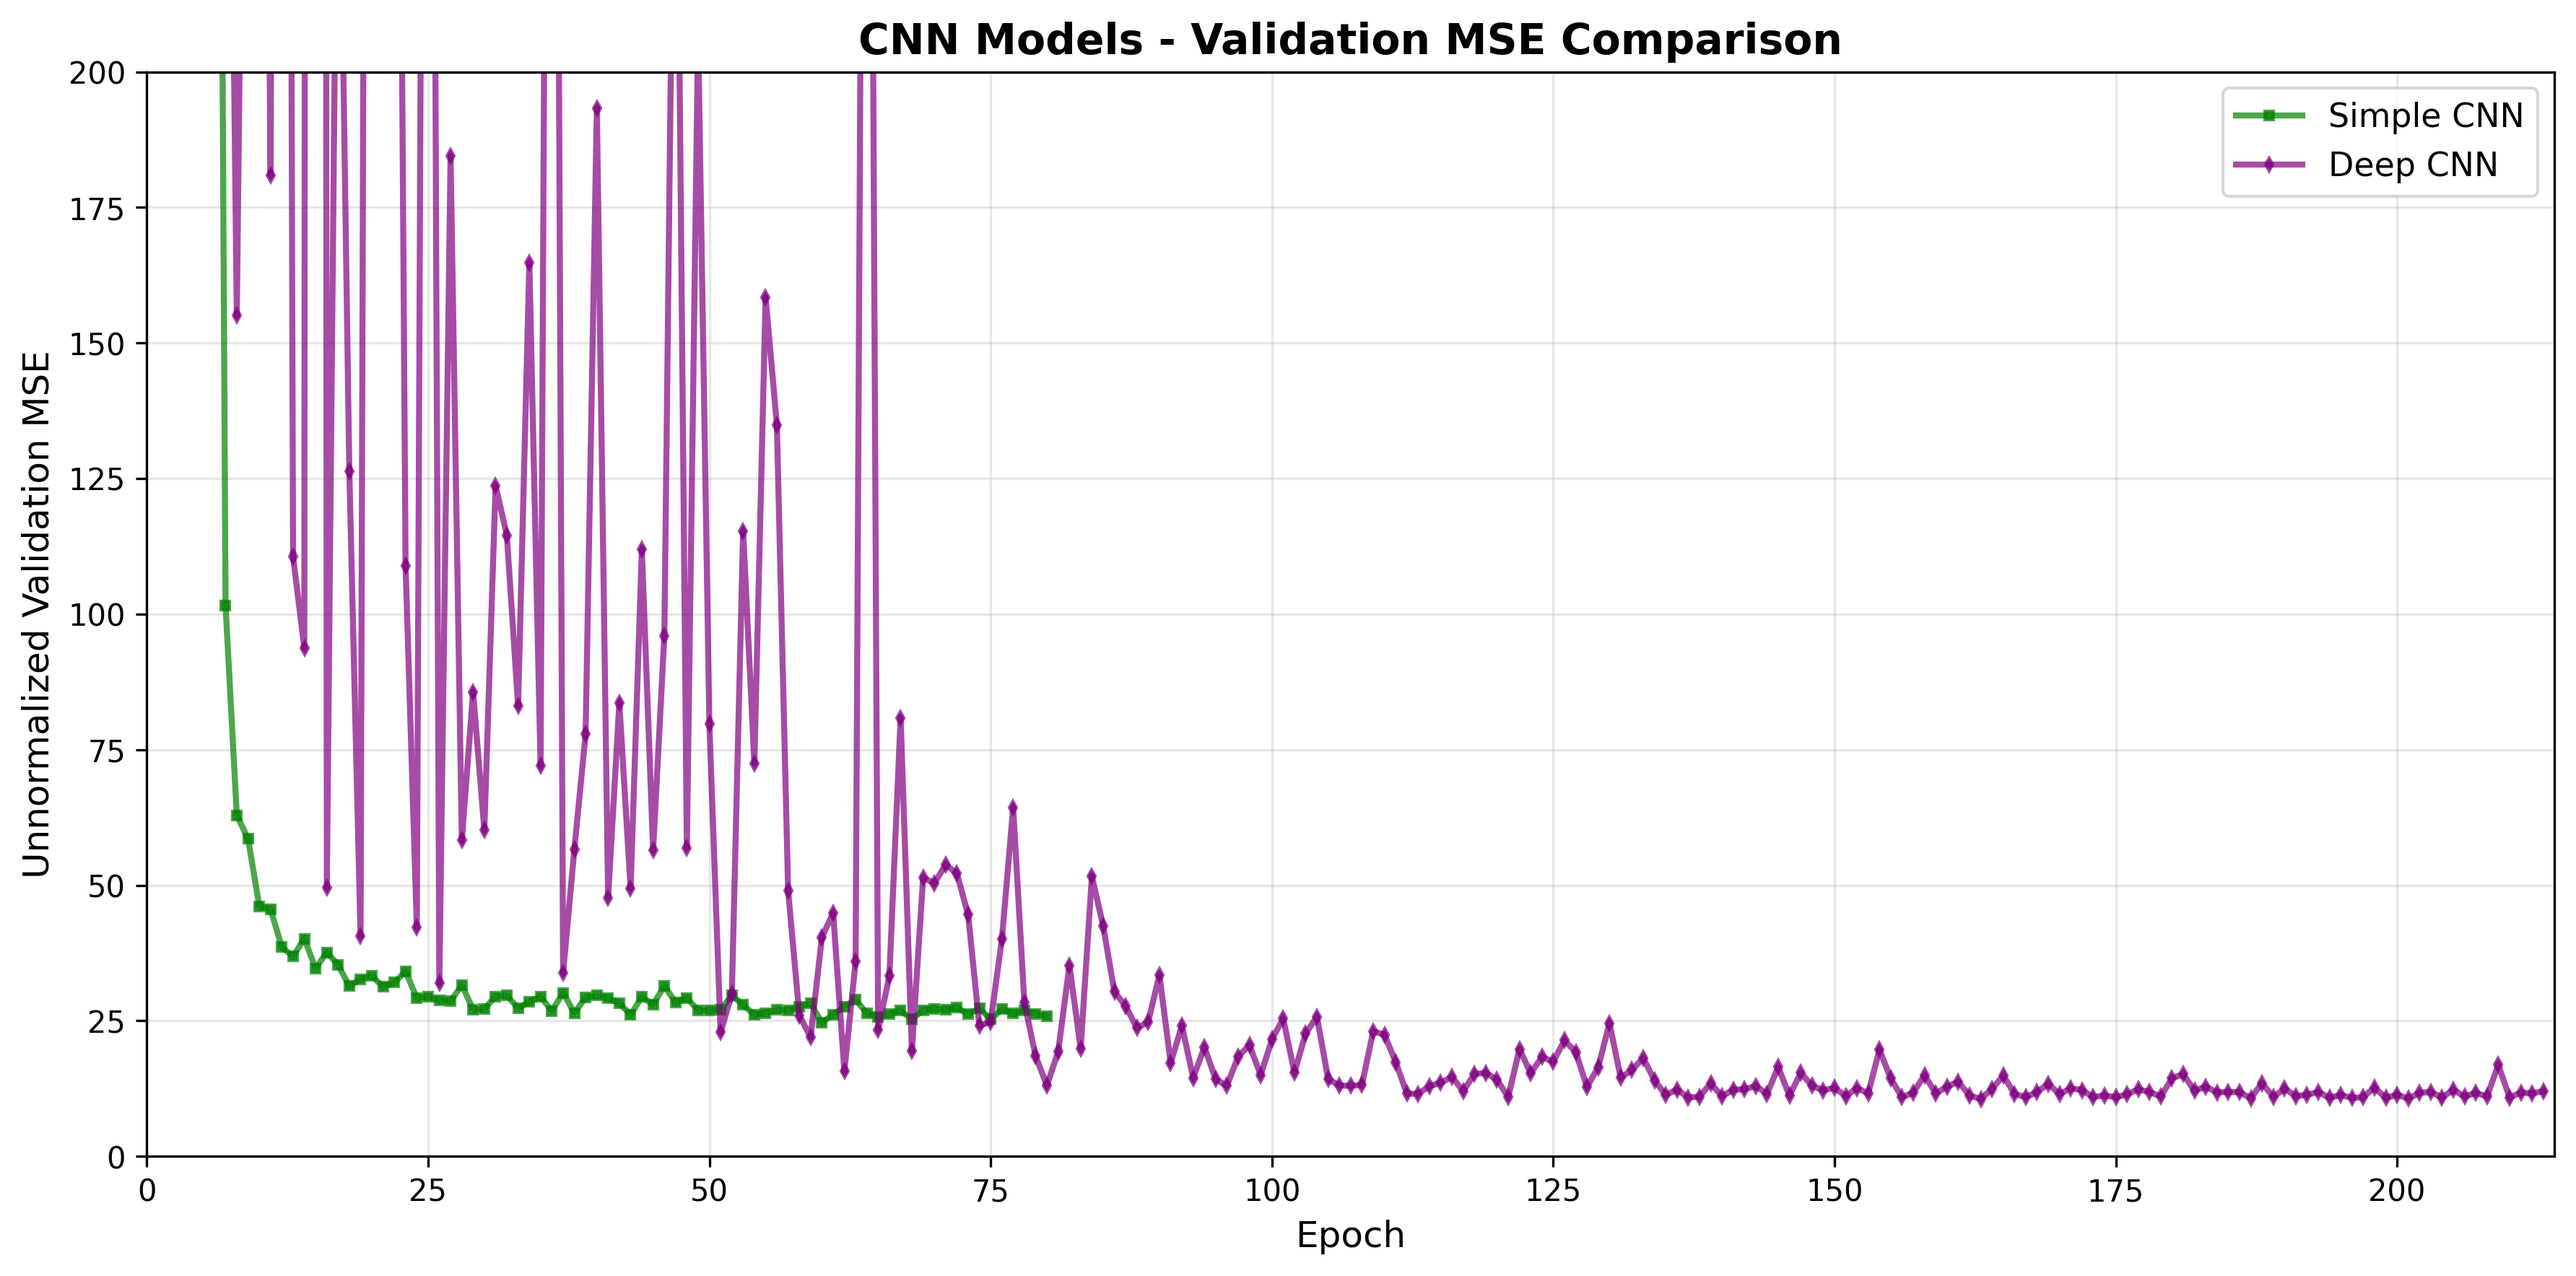
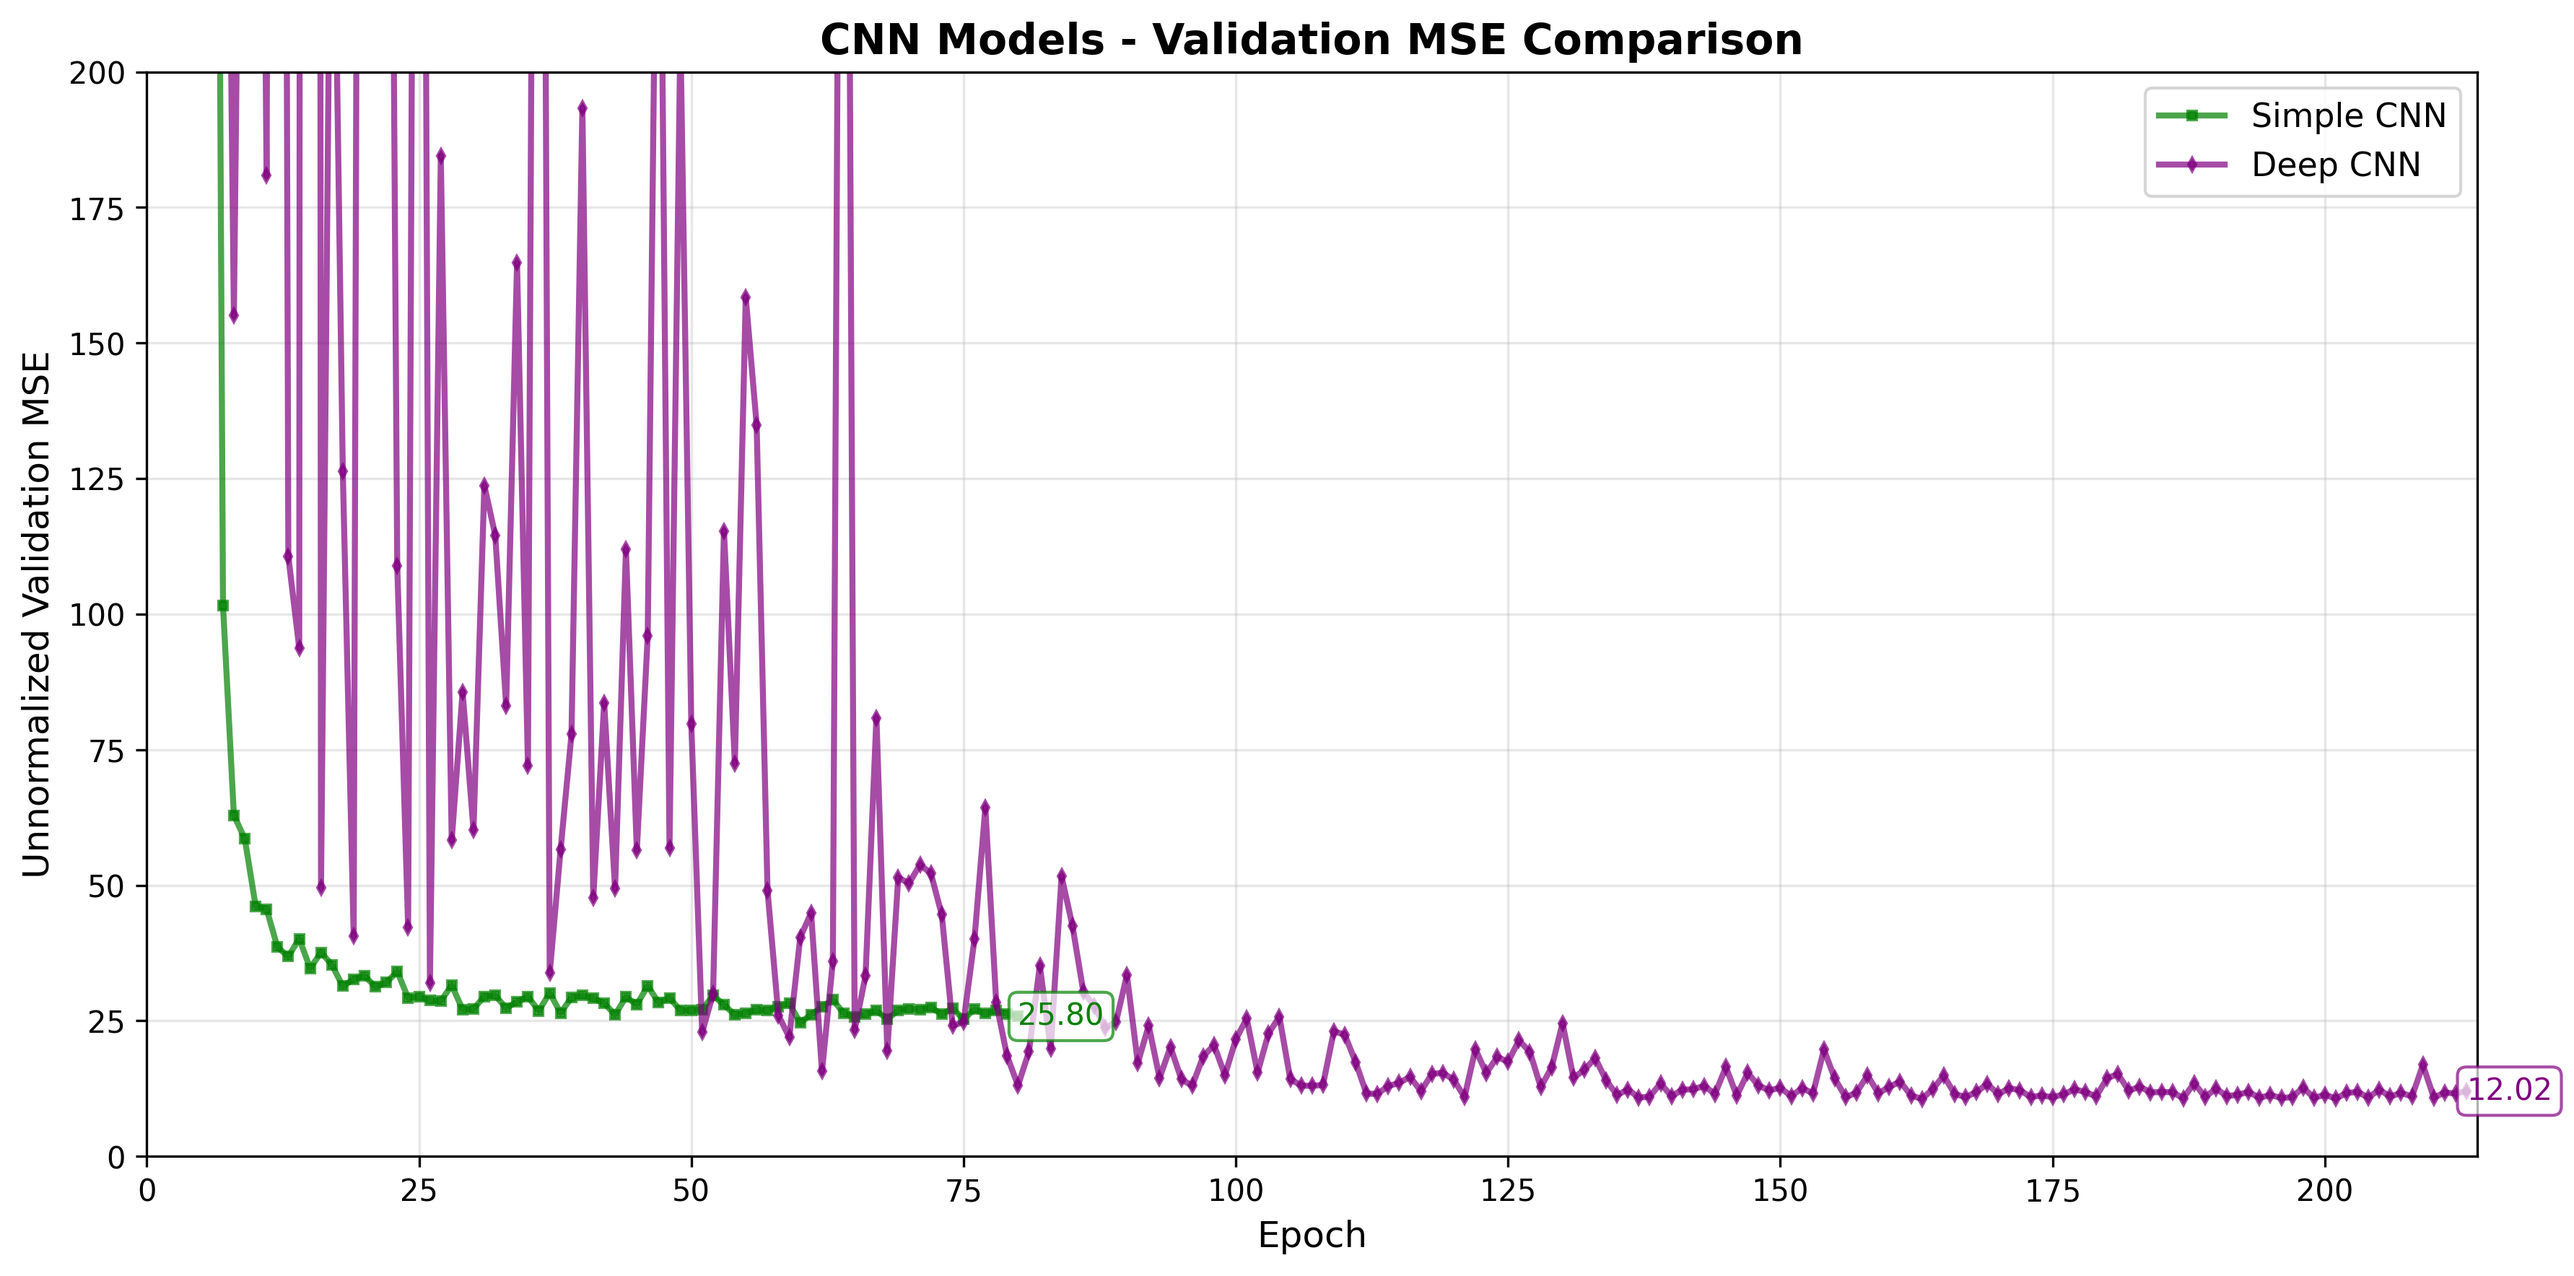
improve plot clarity

diff --git a/experiments/plotting/plot_lstm.py b/experiments/plotting/plot_lstm.py
@@ -11,8 +11,14 @@ plt.figure(figsize=(12, 6))
 
 if lstm_val_mse:
     plt.plot(lstm_epochs, lstm_val_mse, label="LSTM", color="blue", marker="^", markersize=3, linestyle="-", alpha=0.7, linewidth=2)
+    plt.text(lstm_epochs[-1], lstm_val_mse[-1], f'{lstm_val_mse[-1]:.2f}', 
+             fontsize=10, ha='left', va='center', color='blue', 
+             bbox=dict(boxstyle='round,pad=0.3', facecolor='white', edgecolor='blue', alpha=0.7))
 if lstm_att_val_mse:
     plt.plot(lstm_att_epochs, lstm_att_val_mse, label="LSTM + Attention", color="orange", marker="v", markersize=3, linestyle="-", alpha=0.7, linewidth=2)
+    plt.text(lstm_att_epochs[-1], lstm_att_val_mse[-1], f'{lstm_att_val_mse[-1]:.2f}', 
+             fontsize=10, ha='left', va='center', color='orange', 
+             bbox=dict(boxstyle='round,pad=0.3', facecolor='white', edgecolor='orange', alpha=0.7))
 
 plt.xlabel("Epoch", fontsize=12)
 plt.ylabel("Unnormalized Validation MSE", fontsize=12)

diff --git a/experiments/plotting/plot_cnn.py b/experiments/plotting/plot_cnn.py
@@ -10,8 +10,14 @@ plt.figure(figsize=(12, 6))
 
 if cnn_val_mse:
     plt.plot(cnn_epochs, cnn_val_mse, label="Simple CNN", color="green", marker="s", markersize=3, linestyle="-", alpha=0.7, linewidth=2)
+    plt.text(cnn_epochs[-1], cnn_val_mse[-1], f'{cnn_val_mse[-1]:.2f}', 
+             fontsize=10, ha='left', va='center', color='green', 
+             bbox=dict(boxstyle='round,pad=0.3', facecolor='white', edgecolor='green', alpha=0.7))
 if deep_val_mse:
     plt.plot(deep_epochs, deep_val_mse, label="Deep CNN", color="purple", marker="d", markersize=3, linestyle="-", alpha=0.7, linewidth=2)
+    plt.text(deep_epochs[-1], deep_val_mse[-1], f'{deep_val_mse[-1]:.2f}', 
+             fontsize=10, ha='left', va='center', color='purple', 
+             bbox=dict(boxstyle='round,pad=0.3', facecolor='white', edgecolor='purple', alpha=0.7))
 
 plt.xlabel("Epoch", fontsize=12)
 plt.ylabel("Unnormalized Validation MSE", fontsize=12)

diff --git a/experiments/plotting/plot_linear_regression.py b/experiments/plotting/plot_linear_regression.py
@@ -9,6 +9,9 @@ plt.figure(figsize=(12, 6))
 
 if linreg_val_mse:
     plt.plot(linreg_epochs, linreg_val_mse, label="Linear Regression", color="red", marker="o", markersize=3, linestyle="-", alpha=0.7, linewidth=2)
+    plt.text(linreg_epochs[-1], linreg_val_mse[-1], f'{linreg_val_mse[-1]:.2f}', 
+             fontsize=10, ha='left', va='center', color='red', 
+             bbox=dict(boxstyle='round,pad=0.3', facecolor='white', edgecolor='red', alpha=0.7))
 
 plt.xlabel("Epoch", fontsize=12)
 plt.ylabel("Unnormalized Validation MSE", fontsize=12)
